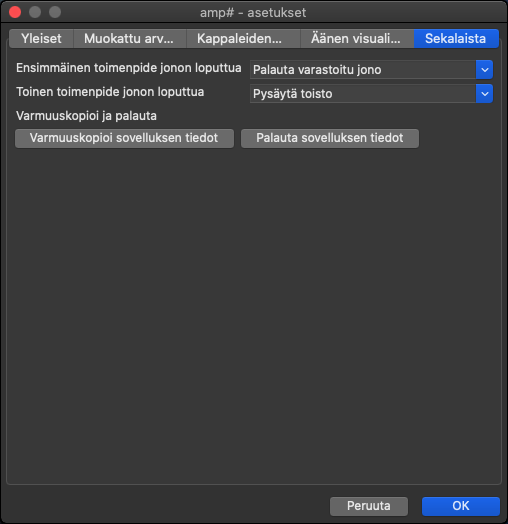
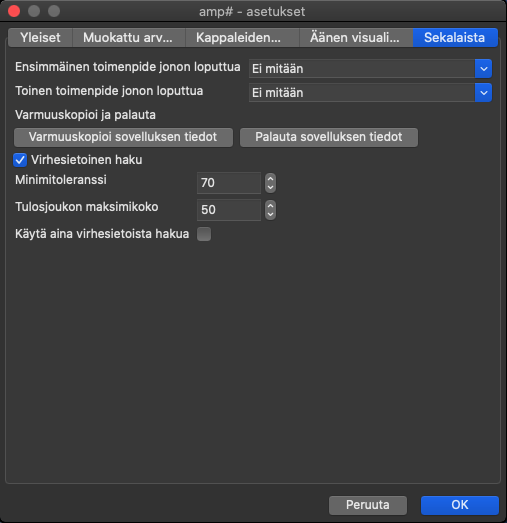
Add documentation to the error-tolerant search.

diff --git a/amp.EtoForms/FormMain.Events.cs b/amp.EtoForms/FormMain.Events.cs
@@ -734,6 +734,7 @@ partial class FormMain
                     filtered =
                         new ObservableCollection<AlbumTrack>(sourceTracks
                             .Where(f => f.AudioTrack!.Match(searchText))
+                            .OrderBy(f => f.DisplayName)
                             .ToList());
                 }
 
@@ -743,6 +744,7 @@ partial class FormMain
                         new ObservableCollection<AlbumTrack>(sourceTracks
                             .Where(f => f.AudioTrack!.FuzzyMatchScore(searchText) >= Globals.Settings.FuzzyWuzzyTolerance)
                             .OrderBy(f => f.AudioTrack!.FuzzyMatchScore(searchText))
+                            .ThenBy(f => f.DisplayName)
                             .Take(Globals.Settings.FuzzyWuzzyMaxResults)
                             .ToList());
                 }
@@ -752,6 +754,7 @@ partial class FormMain
                 filtered =
                     new ObservableCollection<AlbumTrack>(sourceTracks
                         .Where(f => f.AudioTrack!.Match(searchText))
+                        .OrderBy(f => f.DisplayName)
                         .ToList());
             }
         }

diff --git a/Help/amp-fi/docs/settings.md b/Help/amp-fi/docs/settings.md
@@ -110,6 +110,10 @@ Antaa käyttäjän palauttaa sovelluksen tiedot zip-tiedostosta. Zip-tiedoston s
 
 Ennen varmuuskopion palauttamista näytetään seuraava viesti: *"Sovellus sammutetaan varmuuskopion palauttamisen jälkeen. Käynnistä sovellus uudelleen manuaalisesti."*. Kun varmuuskopion palautus on valmis näytetään vielä viesti: *"Varmuuskopioinnin palautus valmis."*.
 
+**Virhesietoinen haku**
+Asettaa käyttöön virhesietoisen haun kappaleiden suodatukseen käyttäen *FuzzyWuzzy*-algoritmia. *Minimitoleranssi* määrittää suodatuksen toleranssin välillä 0 - 100. *Tulosjoukon koko* määrittää suodatettujen tuloksien maksimimäärän.
+*Käytä aina virhesietoista hakua* määrittää, onko *FuzzyWuzzy*-algoritmi aina käytössä kappaleiden suodatukseen, muussa tapauksessa algoritmia käytetään ainoastaan, jos normaalisuodatus ei palauta yhtään tulosta.
+
 *Sekalaista-välilehti*
 
 ![image](img/settings5.png)

diff --git a/Help/amp-en/docs/settings.md b/Help/amp-en/docs/settings.md
@@ -110,6 +110,10 @@ Allows user to restore backed up application data from a zip file. The zip file 
 
 Before the backup is restored a following information is displayed: *"The application will shut down after the backup has been restored. Start the software again manually."*. After the backup has been restored a following message is displayed: *"Backup restore completed."*.
 
+**Error-tolerant search**
+Allows to use error-tolerant search for audio track filtering using *FuzzyWuzzy* algorithm. The *Minimum tolerance* defines the filtering tolerance between 0 to 100. The *Maximum results* defines the amount of filtered results the filtering should return.
+The *Always use error-tolerant search* defines if the *FuzzyWuzzy* algorithm should always be used for filtering, otherwise the algorithm is only used if the normal filtering yields no results.
+
 *The Miscellaneous tab*
 
 ![image](img/settings5.png)
